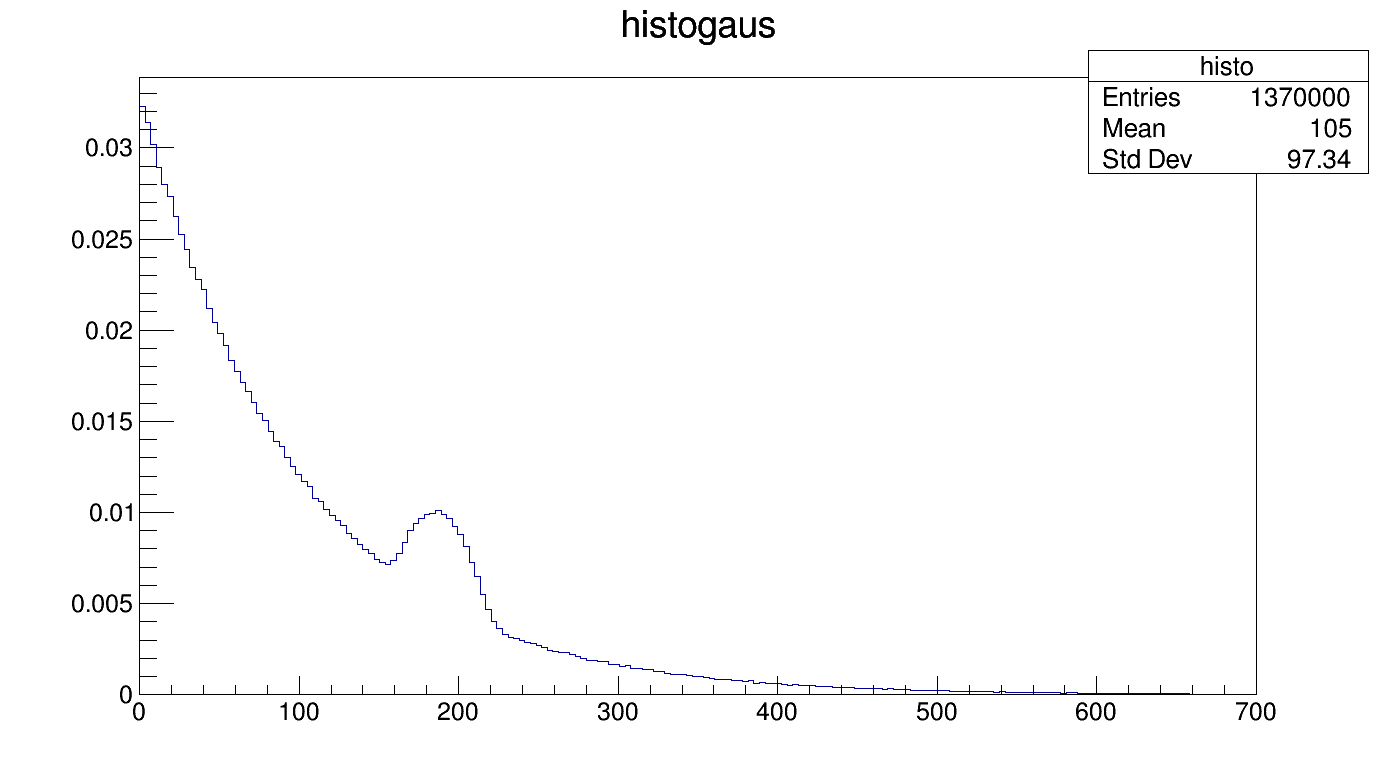
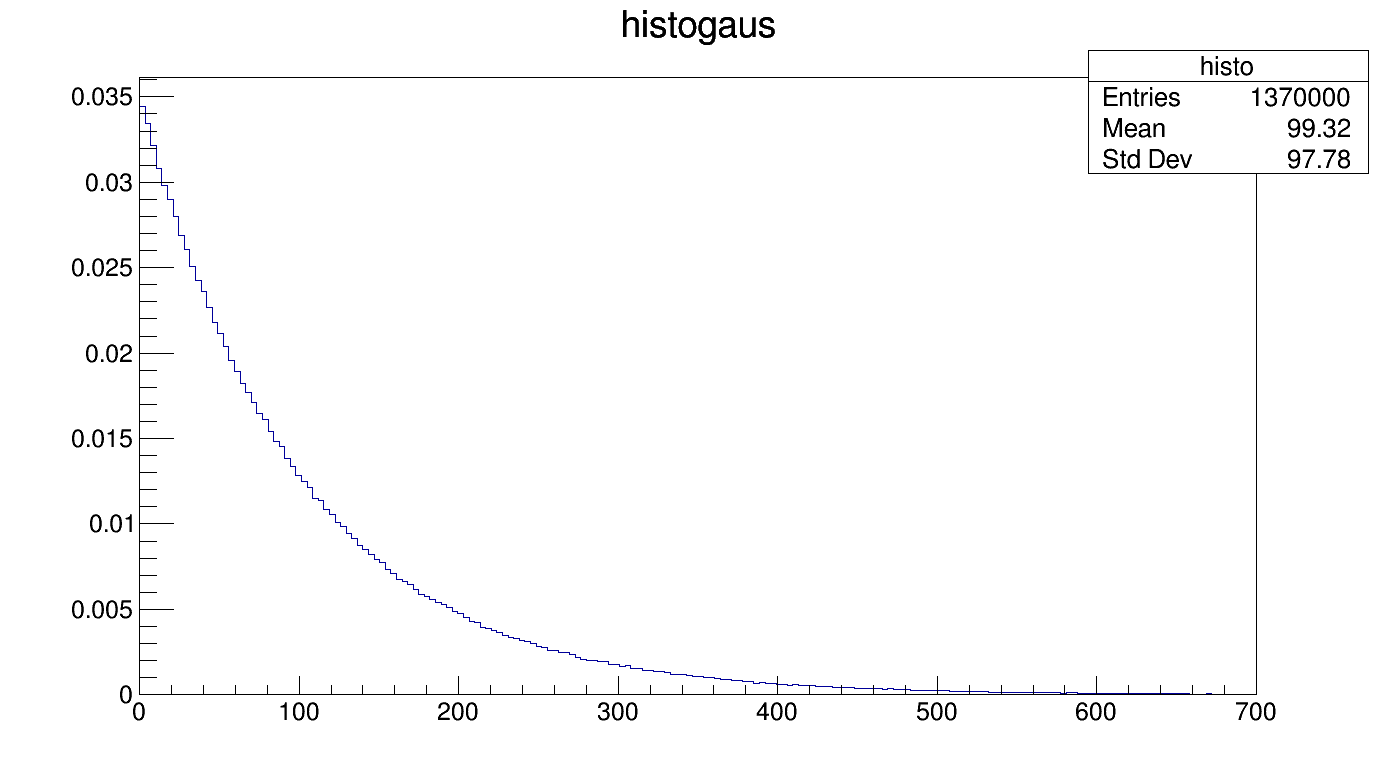
drugi popravljen

diff --git a/Vjezbe_14/analyzer.cpp b/Vjezbe_14/analyzer.cpp
@@ -84,9 +84,19 @@ void Analyzer::higsgaus()
 	double m, NH;
 		for(int j=10; j<695; j=j+5){
 			m=j/1.0;
+			/*
 			NH = pow((m-190),2)+0.02;
 			for(int i=0;i<10000;i++){
 				if(r3->Rndm()>NH/1000){
+					histo->Fill(r3->Gaus(m,0.0236*m));
+				}
+				else{
+					histo->Fill(r3->Exp(100));
+				}
+			}*/
+			NH = -pow((m-190),2)+0.02;
+			for(int i=0;i<10000;i++){
+				if(r3->Rndm()<NH){
 					histo->Fill(r3->Gaus(m,0.0236*m));
 				}
 				else{
@@ -167,9 +177,10 @@ void Analyzer::pval()
 			}
 		}
 		histo->Fit(ekspo,"Q","",j-10,j+10);
-			
+		histo->Reset();
+		
 		double chi = ekspo->GetChisquare();
-		double p_val=chisto->Integral(chisto->GetXaxis()->FindBin(chi),700)/chisto->Integral();
+		double p_val=chisto->Integral(chisto->GetXaxis()->FindBin(chi),200)/chisto->Integral();
 		//cout<< p_val<<endl;
 		graf->SetPoint(brojac,m,p_val);
 		brojac++;
@@ -180,4 +191,7 @@ void Analyzer::pval()
 	TLine *line = new TLine(0,1-0.9973,700,1-0.9973);
 	line->Draw();
 	c->SaveAs("zad2c.png");
+	
+	double z_score = TMath::Sqrt(2)*TMath::ErfcInverse(2*(1-0.9973));
+	cout << z_score << "sigma" << endl;
 };
